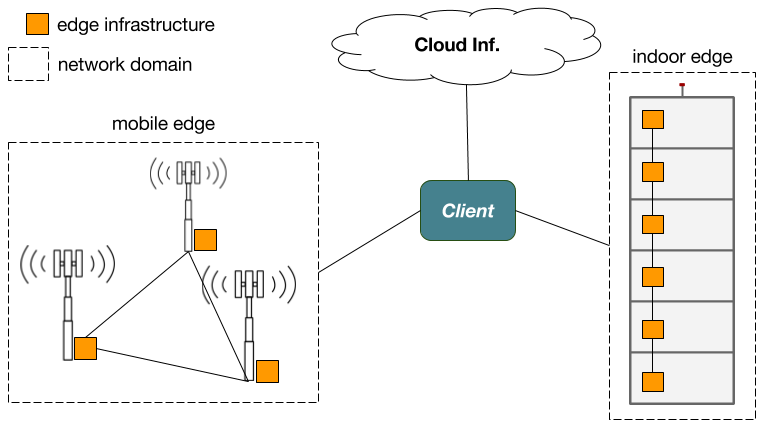
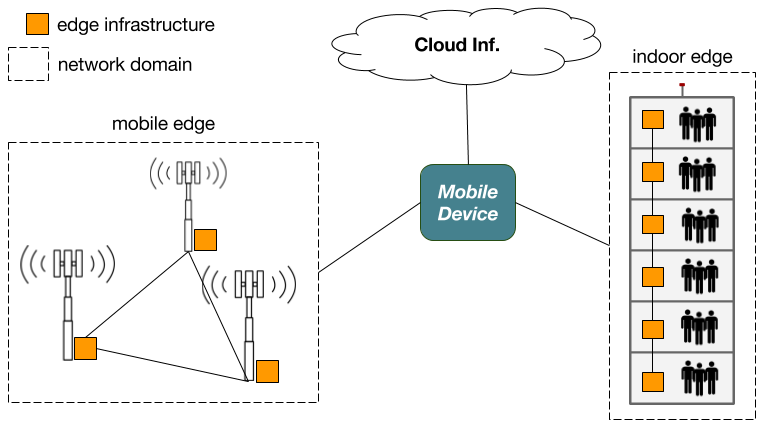
updates

diff --git a/sections/motivation.tex b/sections/motivation.tex
@@ -10,7 +10,7 @@
 
 \subsection{Low-Latency Applications}
 
-The main motivation for shifting computation from cloud to edge infrastructure is to mitigate network latency~\cite{Bonomi2014}. In specific, real-time applications are the main candidates for benefiting of services deployed at nearby edge infrastructure. Among these, some have a higher degree of criticallity with respect to latency and readiness of services (e.g., delay can have severe consequences to the users and/or the environment), whereas others can greatly benefit from lower latencies (e.g., by improving the user experience).
+The main motivation for shifting computation from cloud to the network edge is to mitigate latency~\cite{Bonomi2014}. In specific, real-time applications are the main candidates for benefiting of services deployed at nearby edge infrastructure. Among these, some have a higher degree of criticality with respect to latency and readiness of services (e.g., delay can have severe consequences to the users and/or the environment), whereas others can greatly benefit from lower latencies (e.g., by improving the user experience).
 
 As an example of a critical application, connected vehicles (CV)~\cite{Bonomi:2012} are expected to be the computing device of the next decade, with each vehicle generating 25GB/hour of data~\cite{HitachiInternetOnWheels16}. In addition to local data analysis, more complex analysis shall be delegated to remote servers, which must respond quickly if the result involves critical information, e.g., the notification of an accident in the current path of the vehicle. With edge computing, computational resources located at mobile base stations or even composing the traffic infrastructure (e.g., highways) could provide low-latency services for connected vehicles passing by their coverage area.
 
@@ -37,7 +37,7 @@ With the advent of mobile computing, AR applications can be deployed to companio
 
 \subsection{Mobile Computation Offloading}
 
-In addition to the problem of network latency, mobile devices exhibit limitations that may further motivate the use of edge computing. 
+In addition to the problem of network latency, mobile devices exhibit limitations that may further motivate the use of edge computing as part of a continuum. 
 
 For instance, some mobile applications rely on heavyweight tasks that can overstress the platform and limit the concurrent execution of other applications. Moreover, battery is a valuable resource that may be significantly affected by the kind of computational task performed by mobile devices. 
 
@@ -47,22 +47,5 @@ In the paradigm of Mobile Cloud Computing (MCC)~\cite{Khan:14}, this problem has
 
 As an example, the previously mentioned feature extraction task from AR applications is a type of heavyweight computation based on image processing. Instead of performing it locally (as proposed in~\cite{Huang2012}), mobile devices could also offload this heavyweight task to nearby edge servers. 
 
-\subsection{Computational Continuum}
+%\subsection{Computational Continuum}
 
-\begin{figure}[tbp]
-	\includegraphics[width=0.9\textwidth]{figs/continuum.png}
-	\caption{Heterogeneous applications (AR and CV) interact with services deployed along the computational continuum (cloud, mobile-edge, local-edge, and mobile)}
-	\label{fig:continuum}
-\end{figure}
-
-Together, the computational resources from mobile, edge, and cloud computing have the potential of forming a \textit{computational continuum} on which new and disruptive types of applications can rely. 
-
-To illustrate such scenario, we put together the two application examples previously described as part of a continuum that starts in the user's office and finishes in his home (Fig.~\ref{fig:continuum}). 
-
-Let us assume the existence of a local edge server in the user's office (hereafter called \textit{local-edge}). This server is owned by the company to allow employees to extend the computational capabilities of mobile devices. The user, e.g., makes use of a \textit{smartglass} application to craft three dimensional virtual objects added to his desk table.
-
-After work, our user leaves his office and enters his CV. During its way home, the autonomous vehicle will make use of edge services deployed at servers located at cellular base stations and owned by telecoms (hereafter called \textit{mobile-edge}). The connected vehicle gets low-latency updates about the best plan to reach its destination. For example, within milliseconds, the vehicle is suggested to make a turn just in time to avoid the traffic formed by an accident a few blocks ahead.
-
-Already at home, the user's smartphone gets in reach of communication with the local-edge server owned by him. In that day, the user finds out about a new mobile game application that makes use of AR. Upon installation, the local-edge server becomes aware of a new edge-compliant application and, meanwhile the user is already playing, proceeds with the acquisition and deployment of the game services into the local-edge server. After this, the client application becomes aware of these services and switches from local to edge with the purpose of preserving the smartphone's resources. Not only the game performance improves, but also the battery consumption is reduced.  
-
-In the scenario described above, different parts of the continuum have been employed by user's devices. Whilst edge was privileged, cloud-based services remain fundamental, as edge infrastructure may not be available and services for which network latency is not disruptive are in the cloud (e.g., persistence, stateful components, and large part of the business logic).

diff --git a/sections/introduction.tex b/sections/introduction.tex
@@ -24,6 +24,8 @@ To reduce network latency, data processing must be performed closer to where it 
 --- Third, different types of edge computing infrastructure may exist, including servers located at cellular base stations, temporarily placed nearby public events, and inside buildings and houses to provide support for smart environment applications. The eventual co-existence of edge alternatives would require the client-side participation on the decision of which alternative to use.
 
 --- Last but not least, considering the high availability and elasticity of cloud computing and the opportunistic nature of edge computing, the later should complement rather than replace the former. This vision also extends to the computation that may opportunistically be offloaded from resource constrained mobile devices to nearby edge servers. In this sense, cloud, edge, and mobile computing should be seen as a \textit{computational continuum}.
+
+TODO: we need a figure here to illustrate the continuum
  
 
 %--- Last but not least, cloud servers should not be disregarded as a part of the Cloud-to-Edge continuum. %not sure whether to call it Cloud-to-Things or Cloud-to-Edge
@@ -44,7 +46,9 @@ To reduce network latency, data processing must be performed closer to where it 
 
 In this paper, we propose A3-E --- \textit{(A)wareness, (A)cquisition, (A)llocation and (E)ngagement} --- a unified model that empowers applications to leverage the computation continuum formed by cloud, edge, and mobile computing. In accordance with our previous work~\cite{GarrigaMendonca2017}, A3-E is based on the serverless computing paradigm~\cite{Hendrickson:2016,baldini2017serverless}. In specific, A3-E explores the function-as-a-service (FaaS) model~\cite{MateosFaaster17} to allow stateless functions to be quickly deployed and exposed as services, providing an efficient and scalable allocation of computing resources. A3-E further extends FaaS with the complete automation of services life-cycle, including the acquisition and installation of service artifacts by servers. Such an autonomy releases developers and administrators from the burden of deployment and maintenance and further supports the materialization of a fine-grained distribution of the network edge and the computational continuum as a whole. %Contribution: Scalable Edge Computing
 
+
 As demonstrated through different experiments, client applications can rely on services dynamically selected and implemented as functions that are executable locally, in the edge, or in the cloud. Such a selection is performed according to the application requirements and the actual context of the continuum as perceived by the client. The experiments have shown a XX\% reduction of latency when edge services were used instead of cloud services, and a YY\% decrease of battery consumption when computation was offloaded from the mobile device to nearby edge server. Finally, experiments with an augmented reality application have also shown the feasibility of A3-E model in the realization of the computational continuum, with a single client application been able to seamlessly alternate local, edge, and cloud according to its requirements and monitored context.
+
 
 %Last but not least, our contribution also includes a reference architecture for the realization of the proposed model. 
 

diff --git a/sections/proposal.tex b/sections/proposal.tex
@@ -235,5 +235,24 @@ Table~\ref{tab:A3-E-instances} correlates the possible domain-side instances of 
 
 %\subsection{A3-E: Reference Architecture}\label{sec:a3-e-reference-architecture}
 
-\subsection{Example}
+\subsection{Case Example}
+
+\begin{figure}[tbp]
+	\includegraphics[width=0.9\textwidth]{figs/continuum.png}
+	\caption{Heterogeneous applications (AR and CV) interact with services deployed along the computational continuum (cloud, mobile-edge, local-edge, and mobile)}
+	\label{fig:continuum}
+\end{figure}
+
+Together, the computational resources from mobile, edge, and cloud computing have the potential of forming a \textit{computational continuum} on which new and disruptive types of applications can rely. 
+
+To illustrate such scenario, we put together the two application examples previously described as part of a continuum that starts in the user's office and finishes in his home (Fig.~\ref{fig:continuum}). 
+
+Let us assume the existence of a local edge server in the user's office (hereafter called \textit{local-edge}). This server is owned by the company to allow employees to extend the computational capabilities of mobile devices. The user, e.g., makes use of a \textit{smartglass} application to craft three dimensional virtual objects added to his desk table.
+
+After work, our user leaves his office and enters his CV. During its way home, the autonomous vehicle will make use of edge services deployed at servers located at cellular base stations and owned by telecoms (hereafter called \textit{mobile-edge}). The connected vehicle gets low-latency updates about the best plan to reach its destination. For example, within milliseconds, the vehicle is suggested to make a turn just in time to avoid the traffic formed by an accident a few blocks ahead.
+
+Already at home, the user's smartphone gets in reach of communication with the local-edge server owned by him. In that day, the user finds out about a new mobile game application that makes use of AR. Upon installation, the local-edge server becomes aware of a new edge-compliant application and, meanwhile the user is already playing, proceeds with the acquisition and deployment of the game services into the local-edge server. After this, the client application becomes aware of these services and switches from local to edge with the purpose of preserving the smartphone's resources. Not only the game performance improves, but also the battery consumption is reduced.  
+
+In the scenario described above, different parts of the continuum have been employed by user's devices. Whilst edge was privileged, cloud-based services remain fundamental, as edge infrastructure may not be available and services for which network latency is not disruptive are in the cloud (e.g., persistence, stateful components, and large part of the business logic).
+
 TBW: Example with one of the applications mentioned in the motivation (AR/CV).

diff --git a/sections/requirements.tex b/sections/requirements.tex
@@ -19,12 +19,12 @@ From this point on, the term \textit{domain} is used to abstract whatever comput
 
 \begin{figure}[tbp]
 	\centering
-	\captionsetup[subfigure]{width=0.5\textwidth}	
+	\captionsetup[subfigure]{width=0.53\textwidth}	
 	\null\hfill
-	\subfloat[Heterogeneus and independent types of edge computing infrastructure (mobile and local) in range of communication with a client device\label{fig:edge-heterogeneity}]{ \includegraphics[width=0.5\textwidth]{figs/edge-heterogeneity.png}}
+	\subfloat[Heterogeneus and independent types of computing platforms and infrastructure (mobile-edge, local-edge, cloud) in range of communication with a mobile device\label{fig:edge-heterogeneity}]{ \includegraphics[width=0.53\textwidth]{figs/edge-heterogeneity.png}}
 	\captionsetup[subfigure]{width=0.45\textwidth}	
 	\hfill
-	\subfloat[The heterogeneity of different compute platforms and infrastructures abstracted as domains\label{fig:edge-domain-client}] {\includegraphics[width=0.45\textwidth]{figs/edge-domain-client.png}}
+	\subfloat[The heterogeneity of different cloud and edge compute platforms and infrastructures abstracted as domains\label{fig:edge-domain-client}] {\includegraphics[width=0.45\textwidth]{figs/edge-domain-client.png}}
 	\hfill\null
 	\caption{Continuum heterogeneity}\label{fig:1}
 \end{figure}
@@ -40,7 +40,7 @@ Conversely, users of an augmented reality application could eventually wait for 
 	\item The unified model should enable the co-existence of applications requiring different QoS levels (\textbf{R\arabic{req_count}}); and
 	
 	\stepcounter{req_count}
-	\item The priority of the usage of edge computational resources must be in accordance with the application category and its QoS requirements (\textbf{R\arabic{req_count}})
+	\item The priority of the usage of computational resources from edge-domains must be in accordance with the application category and its QoS requirements (\textbf{R\arabic{req_count}})
 \end{itemize}
 
 
